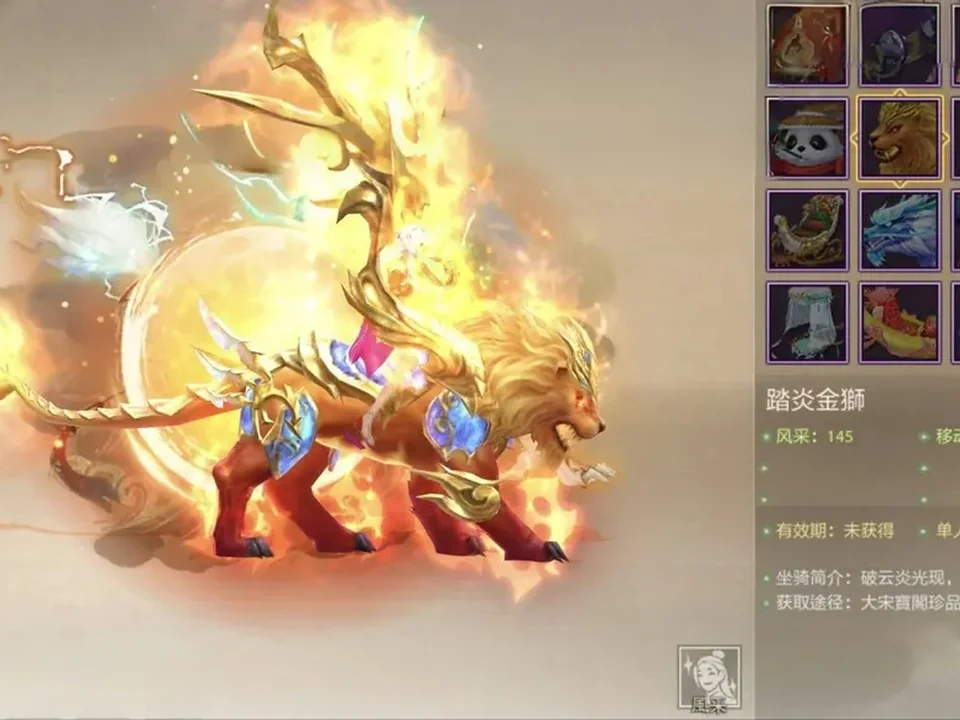
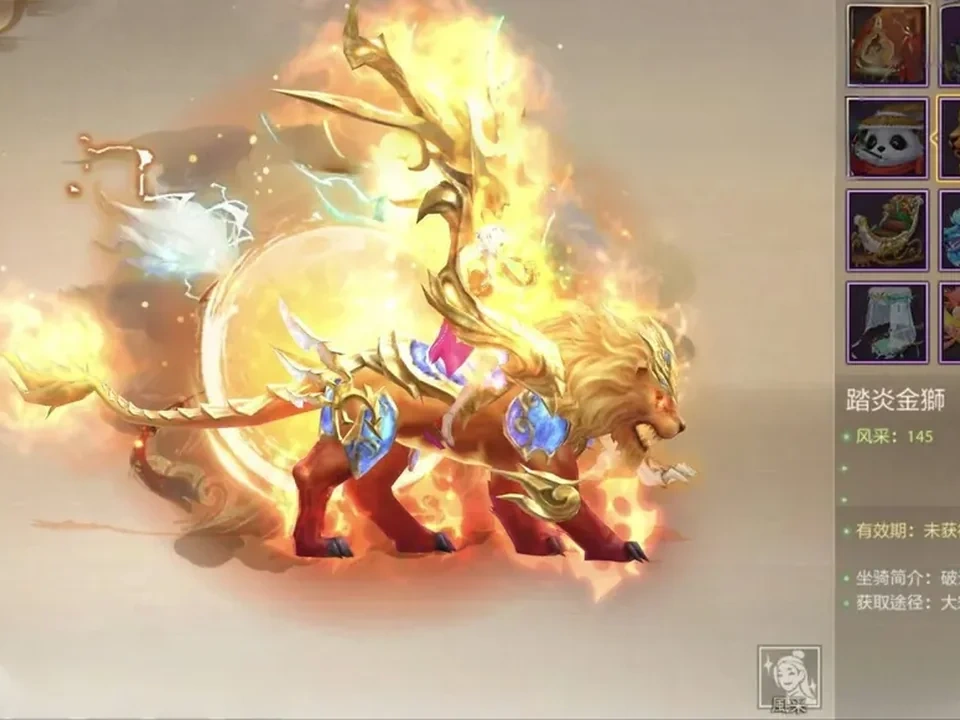
fix(轮播): 23 张图逐张人工裁定裁切位置，保留主标题与关键文案
1) 每张单独选裁切窗口（c_* 居中/右锚，tl_* 左中，cw_* 品牌字在左，ml_* 主标偏左，0.01折贴左）

2) 输出原生 4:3（960x720）WebP q95，满框无白边

3) 版本升至 v20261026160000，避免浏览器复用旧图缓存

diff --git a/index.html b/index.html
@@ -4,7 +4,7 @@
 <meta charset="UTF-8">
 <meta http-equiv="Content-Security-Policy" content="default-src 'self'; script-src 'self'; style-src 'self' 'unsafe-inline' https://miaoda.feishu.cn; img-src 'self' data: blob: https://*.byteimg.com; font-src https://miaoda.feishu.cn; connect-src 'self' https://tlbb.hfynxx.top; frame-ancestors 'none'; form-action 'self'; base-uri 'self';">
 <meta name="referrer" content="strict-origin-when-cross-origin">
-<script src="assets/frame-guard.js?v=v20261026120000"></script>
+<script src="assets/frame-guard.js?v=v20261026160000"></script>
 <meta name="viewport" content="width=device-width, initial-scale=1.0">
 <meta http-equiv="Cache-Control" content="no-cache, no-store, must-revalidate">
 <meta http-equiv="Pragma" content="no-cache">
@@ -55,23 +55,23 @@ header{display:flex;align-items:center;justify-content:space-between;padding:10p
     <div class="zc ct">
       <div class="zc-hd"><b>传奇手游专区</b><em>41 款 · 点图进入</em><a class="enter" href="cq.html">进入传奇 ›</a></div>
       <div class="carousel" data-swipe data-href="cq.html">
-        <div class="slide on"><img src="assets/home-carousel/c_kuangbao_xiyou.webp?v=v20261026120000" alt="狂暴西游"></div><div class="slide"><img data-src="assets/home-carousel/c_feijian_jianghu.webp?v=v20261026120000" alt="飞剑江湖" decoding="async"></div><div class="slide"><img data-src="assets/home-carousel/c_shensu_chuanqi.webp?v=v20261026120000" alt="神速传奇" decoding="async"></div><div class="slide"><img data-src="assets/home-carousel/c_bingxue_guilai.webp?v=v20261026120000" alt="冰雪归来" decoding="async"></div><div class="slide"><img data-src="assets/home-carousel/c_zhanguo_chuanqi.webp?v=v20261026120000" alt="战国传奇" decoding="async"></div><div class="slide"><img data-src="assets/home-carousel/c_liehuo_zhange.webp?v=v20261026120000" alt="烈火战歌" decoding="async"></div><div class="slide"><img data-src="assets/home-carousel/c_shacheng_fengyun.webp?v=v20261026120000" alt="沙城风云" decoding="async"></div>
+        <div class="slide on"><img src="assets/home-carousel/c_kuangbao_xiyou.webp?v=v20261026160000" alt="狂暴西游"></div><div class="slide"><img data-src="assets/home-carousel/c_feijian_jianghu.webp?v=v20261026160000" alt="飞剑江湖" decoding="async"></div><div class="slide"><img data-src="assets/home-carousel/c_shensu_chuanqi.webp?v=v20261026160000" alt="神速传奇" decoding="async"></div><div class="slide"><img data-src="assets/home-carousel/c_bingxue_guilai.webp?v=v20261026160000" alt="冰雪归来" decoding="async"></div><div class="slide"><img data-src="assets/home-carousel/c_zhanguo_chuanqi.webp?v=v20261026160000" alt="战国传奇" decoding="async"></div><div class="slide"><img data-src="assets/home-carousel/c_liehuo_zhange.webp?v=v20261026160000" alt="烈火战歌" decoding="async"></div><div class="slide"><img data-src="assets/home-carousel/c_shacheng_fengyun.webp?v=v20261026160000" alt="沙城风云" decoding="async"></div>
         <div class="dots"><button class="dot on" data-i="0" type="button" aria-label="第1张"></button><button class="dot" data-i="1" type="button" aria-label="第2张"></button><button class="dot" data-i="2" type="button" aria-label="第3张"></button><button class="dot" data-i="3" type="button" aria-label="第4张"></button><button class="dot" data-i="4" type="button" aria-label="第5张"></button><button class="dot" data-i="5" type="button" aria-label="第6张"></button><button class="dot" data-i="6" type="button" aria-label="第7张"></button></div>
       </div>
     </div>
     <div class="zc tl">
-      <div class="zc-hd"><b>天龙手游专区</b><em>17职业国际服 · 点图进入</em><a class="enter" href="tianlong.html?v=v20261026120000">进入天龙 ›</a></div>
-      <div class="carousel" data-swipe data-href="tianlong.html?v=v20261026120000">
-        <div class="slide on"><img src="assets/home-carousel/tl_official_logo_uni.webp?v=v20261026120000" alt="天龙八部手游"></div><div class="slide"><img data-src="assets/home-carousel/tl_taohuadao_uni.webp?v=v20261026120000" alt="天龙游戏实景" decoding="async"></div><div class="slide"><img data-src="assets/home-carousel/tl_tianmingxuanfeng_uni.webp?v=v20261026120000" alt="天龙珍兽天命玄凤" decoding="async"></div><div class="slide"><img data-src="assets/home-carousel/tl_beimingxuanwu_uni.webp?v=v20261026120000" alt="天龙珍兽北溟玄龟" decoding="async"></div><div class="slide"><img data-src="assets/home-carousel/tl_fengyujingmeng_uni.webp?v=v20261026120000" alt="天龙时装风雨惊梦" decoding="async"></div><div class="slide"><img data-src="assets/home-carousel/tl_tayanjinshi_uni.webp?v=v20261026120000" alt="天龙累计登录奖励" decoding="async"></div>        <div class="dots"><button class="dot on" data-i="0" type="button" aria-label="第1张"></button><button class="dot" data-i="1" type="button" aria-label="第2张"></button><button class="dot" data-i="2" type="button" aria-label="第3张"></button><button class="dot" data-i="3" type="button" aria-label="第4张"></button><button class="dot" data-i="4" type="button" aria-label="第5张"></button><button class="dot" data-i="5" type="button" aria-label="第6张"></button></div>
+      <div class="zc-hd"><b>天龙手游专区</b><em>17职业国际服 · 点图进入</em><a class="enter" href="tianlong.html?v=v20261026160000">进入天龙 ›</a></div>
+      <div class="carousel" data-swipe data-href="tianlong.html?v=v20261026160000">
+        <div class="slide on"><img src="assets/home-carousel/tl_official_logo_uni.webp?v=v20261026160000" alt="天龙八部手游"></div><div class="slide"><img data-src="assets/home-carousel/tl_taohuadao_uni.webp?v=v20261026160000" alt="天龙游戏实景" decoding="async"></div><div class="slide"><img data-src="assets/home-carousel/tl_tianmingxuanfeng_uni.webp?v=v20261026160000" alt="天龙珍兽天命玄凤" decoding="async"></div><div class="slide"><img data-src="assets/home-carousel/tl_beimingxuanwu_uni.webp?v=v20261026160000" alt="天龙珍兽北溟玄龟" decoding="async"></div><div class="slide"><img data-src="assets/home-carousel/tl_fengyujingmeng_uni.webp?v=v20261026160000" alt="天龙时装风雨惊梦" decoding="async"></div><div class="slide"><img data-src="assets/home-carousel/tl_tayanjinshi_uni.webp?v=v20261026160000" alt="天龙累计登录奖励" decoding="async"></div>        <div class="dots"><button class="dot on" data-i="0" type="button" aria-label="第1张"></button><button class="dot" data-i="1" type="button" aria-label="第2张"></button><button class="dot" data-i="2" type="button" aria-label="第3张"></button><button class="dot" data-i="3" type="button" aria-label="第4张"></button><button class="dot" data-i="4" type="button" aria-label="第5张"></button><button class="dot" data-i="5" type="button" aria-label="第6张"></button></div>
       </div>
     </div>
   </div>
 
   <p class="foot">游戏专区门户 · 传奇专区 + 魔幻天龙国际服</p>
 </div>
-<script src="assets/carousel.js?v=v20261026120000"></script>
-<script src="assets/rv-check.js?v=v20261026120000"></script>
-<script src="assets/kefu.js?v=v20261026120000"></script>
+<script src="assets/carousel.js?v=v20261026160000"></script>
+<script src="assets/rv-check.js?v=v20261026160000"></script>
+<script src="assets/kefu.js?v=v20261026160000"></script>
 
 </body>
 </html>

diff --git a/tianlong.html b/tianlong.html
@@ -4,7 +4,7 @@
 <meta charset="UTF-8">
 <meta http-equiv="Content-Security-Policy" content="default-src 'self'; script-src 'self'; style-src 'self' 'unsafe-inline' https://miaoda.feishu.cn; img-src 'self' data: blob: https://*.byteimg.com; font-src https://miaoda.feishu.cn; connect-src 'self' https://tlbb.hfynxx.top; frame-ancestors 'none'; form-action 'self'; base-uri 'self';">
 <meta name="referrer" content="strict-origin-when-cross-origin">
-<script src="assets/frame-guard.js?v=v20261026120000"></script>
+<script src="assets/frame-guard.js?v=v20261026160000"></script>
 <meta name="viewport" content="width=device-width, initial-scale=1.0">
 <meta http-equiv="Cache-Control" content="no-store">
 <title>天龙手游专区 · 畅玩版 & 魔幻版</title>
@@ -50,29 +50,29 @@ header{display:flex;align-items:center;justify-content:space-between;padding:8px
   <div class="dual">
     <!-- 畅玩版滚动区(全图帧) -->
     <div class="zc cw-zc">
-      <div class="zc-hd"><b>畅玩版</b><em>经典天龙八部</em><a class="enter" href="tl-changwan.html?v=v20261026120000">进入畅玩版 ›</a></div>
+      <div class="zc-hd"><b>畅玩版</b><em>经典天龙八部</em><a class="enter" href="tl-changwan.html?v=v20261026160000">进入畅玩版 ›</a></div>
       <div class="carousel cw-car" data-href="tl-changwan.html">
-        <div class="slide on"><img src="assets/home-carousel/cw_17profession_uni.webp?v=v20261026120000" alt="畅玩天龙17职业"></div><div class="slide"><img src="assets/home-carousel/cw_gonglue_uni.webp?v=v20261026120000" alt="畅玩天龙游戏攻略" decoding="async"></div><div class="slide"><img src="assets/home-carousel/cw_xinwanfa_uni.webp?v=v20261026120000" alt="畅玩天龙更新全新玩法" decoding="async"></div><div class="slide"><img src="assets/home-carousel/cw_emei_uni.webp?v=v20261026120000" alt="畅玩天龙峨眉门派" decoding="async"></div><div class="slide"><img src="assets/home-carousel/cw_shuangjie_uni.webp?v=v20261026120000" alt="畅玩天龙双节同庆" decoding="async"></div><div class="dots"><button class="dot on" data-i="0" type="button" aria-label="第1张"></button><button class="dot" data-i="1" type="button" aria-label="第2张"></button><button class="dot" data-i="2" type="button" aria-label="第3张"></button><button class="dot" data-i="3" type="button" aria-label="第4张"></button><button class="dot" data-i="4" type="button" aria-label="第5张"></button></div>
+        <div class="slide on"><img src="assets/home-carousel/cw_17profession_uni.webp?v=v20261026160000" alt="畅玩天龙17职业"></div><div class="slide"><img src="assets/home-carousel/cw_gonglue_uni.webp?v=v20261026160000" alt="畅玩天龙游戏攻略" decoding="async"></div><div class="slide"><img src="assets/home-carousel/cw_xinwanfa_uni.webp?v=v20261026160000" alt="畅玩天龙更新全新玩法" decoding="async"></div><div class="slide"><img src="assets/home-carousel/cw_emei_uni.webp?v=v20261026160000" alt="畅玩天龙峨眉门派" decoding="async"></div><div class="slide"><img src="assets/home-carousel/cw_shuangjie_uni.webp?v=v20261026160000" alt="畅玩天龙双节同庆" decoding="async"></div><div class="dots"><button class="dot on" data-i="0" type="button" aria-label="第1张"></button><button class="dot" data-i="1" type="button" aria-label="第2张"></button><button class="dot" data-i="2" type="button" aria-label="第3张"></button><button class="dot" data-i="3" type="button" aria-label="第4张"></button><button class="dot" data-i="4" type="button" aria-label="第5张"></button></div>
       </div>
     </div>
     <!-- 魔幻版滚动区 -->
     <div class="zc ml">
-      <div class="zc-hd"><b>魔幻版</b><em>17职业国际服</em><a class="enter" href="tl-mohuan.html?ver=v20261026120000">进入魔幻版 ›</a></div>
-      <div class="carousel ml-car" data-href="tl-mohuan.html?ver=v20261026120000">
-        <div class="slide on"><img src="assets/home-carousel/ml_001zhe.webp?v=v20261026120000" alt="0.01折江湖钜惠令"></div>
-        <div class="slide"><img src="assets/home-carousel/ml_gongce.webp?v=v20261026120000" alt="天龙公测江湖充值帖" decoding="async"></div>
-        <div class="slide"><img src="assets/home-carousel/ml_chonglou.webp?v=v20261026120000" alt="七日寻重楼连充献礼" decoding="async"></div>
-        <div class="slide"><img src="assets/home-carousel/ml_free.webp?v=v20261026120000" alt="免费福利馈赠" decoding="async"></div>
-        <div class="slide"><img src="assets/home-carousel/ml_libao.webp?v=v20261026120000" alt="魔幻天龙福利礼包" decoding="async"></div>
+      <div class="zc-hd"><b>魔幻版</b><em>17职业国际服</em><a class="enter" href="tl-mohuan.html?ver=v20261026160000">进入魔幻版 ›</a></div>
+      <div class="carousel ml-car" data-href="tl-mohuan.html?ver=v20261026160000">
+        <div class="slide on"><img src="assets/home-carousel/ml_001zhe.webp?v=v20261026160000" alt="0.01折江湖钜惠令"></div>
+        <div class="slide"><img src="assets/home-carousel/ml_gongce.webp?v=v20261026160000" alt="天龙公测江湖充值帖" decoding="async"></div>
+        <div class="slide"><img src="assets/home-carousel/ml_chonglou.webp?v=v20261026160000" alt="七日寻重楼连充献礼" decoding="async"></div>
+        <div class="slide"><img src="assets/home-carousel/ml_free.webp?v=v20261026160000" alt="免费福利馈赠" decoding="async"></div>
+        <div class="slide"><img src="assets/home-carousel/ml_libao.webp?v=v20261026160000" alt="魔幻天龙福利礼包" decoding="async"></div>
         <div class="dots"><button class="dot on" data-i="0" type="button" aria-label="第1张"></button><button class="dot" data-i="1" type="button" aria-label="第2张"></button><button class="dot" data-i="2" type="button" aria-label="第3张"></button><button class="dot" data-i="3" type="button" aria-label="第4张"></button><button class="dot" data-i="4" type="button" aria-label="第5张"></button></div>
       </div></div>
     </div>
 
   <p class="foot">天龙手游专区 · 畅玩版(经典天龙八部) + 魔幻版(17职业国际服)</p>
 </div>
-<script src="assets/carousel.js?v=v20261026120000"></script>
-<script src="assets/rv-check.js?v=v20261026120000"></script>
-<script src="assets/kefu.js?v=v20261026120000"></script>
+<script src="assets/carousel.js?v=v20261026160000"></script>
+<script src="assets/rv-check.js?v=v20261026160000"></script>
+<script src="assets/kefu.js?v=v20261026160000"></script>
 
 </body>
 </html>
